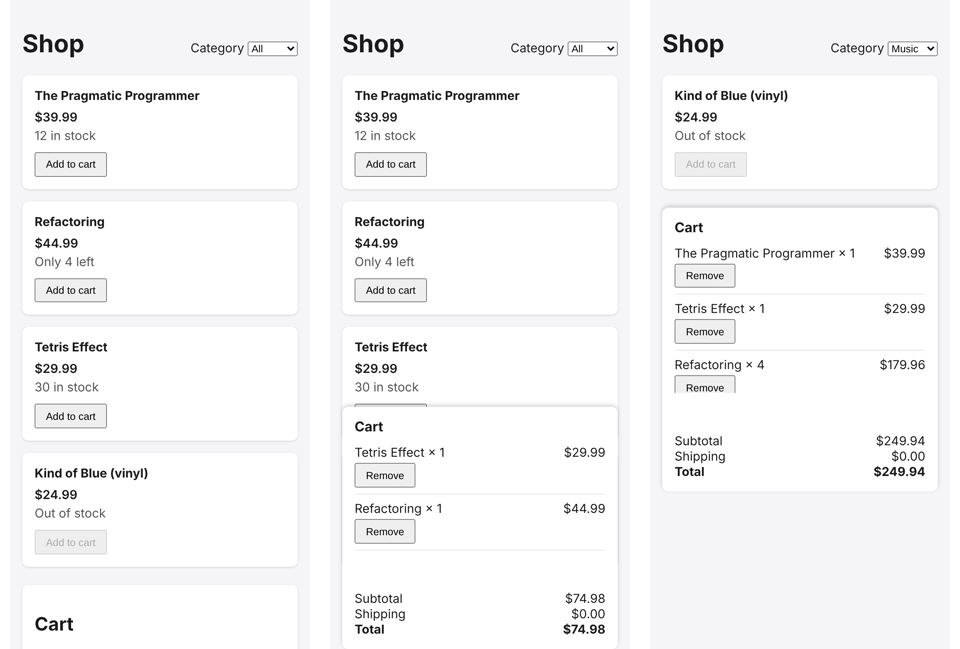
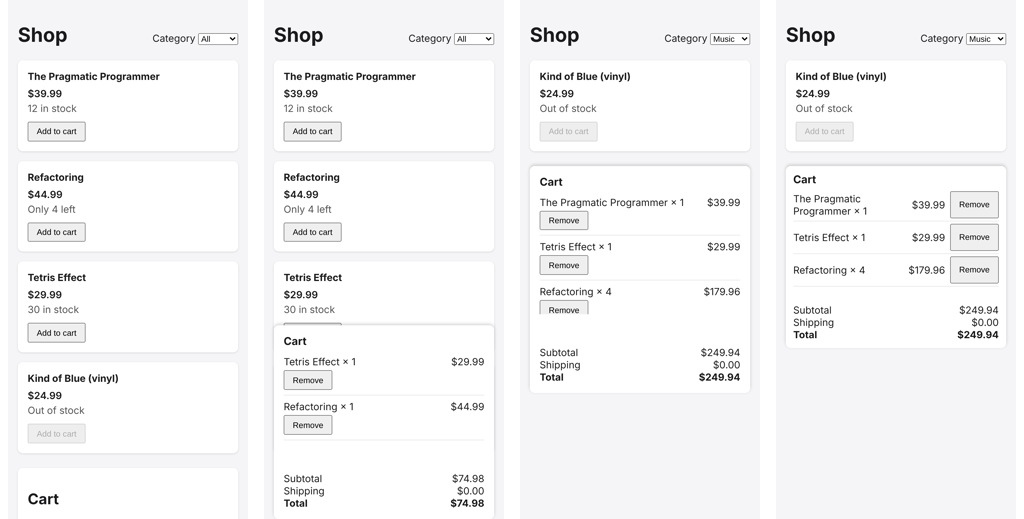
docs(qa): the storefront's third pass: four 🟡 found and fixed, then PASS
Claude-Session: https://claude.ai/code/session_01AxYJUPyK8GraQMYqJv5HXb

diff --git a/docs/qa.md b/docs/qa.md
@@ -15,9 +15,9 @@ when you ask: no agent hands off to it.
 [![QA-03 before and after its fix, and QA-05, which the fix brought](media/qa-storefront.png)](https://github.com/Akiles94/ai-dev-toolkit-examples/tree/main/examples/qa)
 
 *On the [storefront example](https://github.com/Akiles94/ai-dev-toolkit-examples/tree/main/examples/qa),
-a page the reviewer had passed: on a phone the cart was below every card (left); the fix docked it
-(middle); the second pass found that, with three lines, the docked cart cuts a button in half
-(right). Screenshots taken by `aidt qa walk`.*
+a page the reviewer had passed: on a phone the cart was below every card; the fix docked it; the
+second pass found that, with three lines, the docked cart cut a button in half; after that fix the
+third pass gave PASS. Screenshots taken by `aidt qa walk`.*
 
 [Why](#why-a-qa-and-not-only-a-reviewer) · [A pass](#a-pass) · [The walk](#the-walk) ·
 [What you get](#what-you-get) · [The fixes](#the-fixes-and-their-tests) ·
@@ -106,11 +106,11 @@ which the agent cannot write: `["local", "https://cdn.example.com"]`, or only
 
 ```text
 $ aidt qa walk .aidt/tasks/feat-SHOP-40-storefront/qa/walks/double-tap.json
-Walk «A double tap on Add to cart» · http://localhost:3000 · at ebbe590
+Walk «A double tap on Add to cart» · http://localhost:3000 · at 5efa566
  1 shopper    go /
-      GET / 200 · GET /products 200 · POST /carts 201 · GET /carts/cart-b3592575 200
+      GET / 200 · GET /products 200 · POST /carts 201 · GET /carts/cart-a7ae1cea 200
  2 shopper    click "Add to cart" ×2
-      POST /carts/cart-b3592575/items 200 · POST /carts/cart-b3592575/items 200
+      POST /carts/cart-a7ae1cea/items 200 · POST /carts/cart-a7ae1cea/items 200
  3 shopper    look «the cart after a double tap»
       screenshot: .aidt/qa/double-tap/03-shopper.png
       │ Shop
@@ -120,9 +120,10 @@ Walk «A double tap on Add to cart» · http://localhost:3000 · at ebbe590
       │ $79.98
       │ … 2 more line(s) in .aidt/qa/double-tap/03-shopper.txt
  4 shopper    keep cart
-      cart = "cart-b3592575"
+      cart = "cart-a7ae1cea"
  5 intruder   request DELETE /carts/{cart}/items/p-1
-      200 {"id":"cart-b3592575","items":[],"subtotalCents":0,"shippingCents":0,…}
+      DELETE /carts/cart-a7ae1cea/items/p-1 200
+      {"id":"cart-a7ae1cea","items":[],"subtotalCents":0,"shippingCents":0,…}
 Walked all 5 step(s).
 Calls that failed or answered 4xx/5xx: 0 · console errors: 0 · page errors: 0
 Log: .aidt/qa/double-tap/walk.json
@@ -182,10 +183,12 @@ a page built with the full workflow and passed by the reviewer:
 | Pass 1: 9 walks, 15 runs, the report | `claude-sonnet-5-5` | 41 | 3 min 8 s | 1.75M (1.69M) | 17.6k | $0.59 |
 | The fixes (SHOP-41): refiner, planner, builder, reviewer twice | `claude-sonnet-5-5` | — | 6 min 13 s | 4.0M (3.8M) | 53k | $1.47 |
 | Pass 2: 4 walks, 7 runs, the report | `claude-sonnet-5-5` | — | 1 min 40 s | 773k (729k) | 7.7k | $0.26 |
+| The fix of pass 2's finding: refiner, planner, builder, reviewer | `claude-sonnet-5-5` | — | 3 min 59 s | 3.5M (3.3M) | 32k | $1.35 |
+| Pass 3: 3 walks, the report | `claude-sonnet-5-5` | 27 | 1 min 34 s | 948k (878k) | 12k | $0.45 |
 
-- **The QA: $0.98 for two passes.** First pass: three 🟡 and a note on a page with 34 green tests
-  and a reviewer's PASS. Second pass: the three fixed, and a new 🟡 the fix brought. The walks
-  cost no tokens; each ran in 2 to 10 seconds.
+- **The QA: $1.44 for three passes.** First pass: three 🟡 and a note on a page with 34 green
+  tests and a reviewer's PASS. Second pass: the three fixed, and a new 🟡 the phone fix brought.
+  Third pass, after that fix: PASS. The walks cost no tokens; each ran in 2 to 10 seconds.
 - **About 200,000 tokens per walk**, as Claude Code counts them: most are the conversation read
   again from the cache, at a tenth of the price. The agent's estimate counts them that way.
 - **The fixes are a block like any other.** On the same fix, the reviewer failed a CSS section from

diff --git a/README.md b/README.md
@@ -74,7 +74,7 @@ is kept in full, so you can see the results before installing anything. Measured
 | [Full workflow](docs/workflow.md#cost-and-model), ticket to 2 stacked PRs | Sonnet | 7 min 36 s | $1.43 |
 | [Full workflow](https://github.com/Akiles94/ai-dev-toolkit-examples/tree/main/examples/storefront), ticket to a web page in 3 reviewed sections | Sonnet | 6 min 40 s | $1.65 |
 | [Demo](docs/demo.md#cost-and-model), that page as a 1 min 20 s narrated video | Sonnet | 4 min 40 s | $0.28 |
-| [QA](docs/qa.md#cost-and-model), that page used as each person: two passes, 3 🟡 fixed and 1 new found | Sonnet | 5 min 6 s | $0.98 |
+| [QA](docs/qa.md#cost-and-model), that page used as each person: three passes, 4 🟡 found and fixed, then PASS | Sonnet | 6 min 40 s | $1.44 |
 | [Context](docs/context.md#measured), closing a block: a status 80 % shorter, 5 summaries | Sonnet | 1 min 5 s | $0.28 |
 
 ### How these numbers were measured
@@ -88,9 +88,9 @@ is kept in full, so you can see the results before installing anything. Measured
   toward usage limits instead.
 - **One run each**, on a small demo repository. Three reviewer runs on the same branch cost
   between $0.22 and $0.29: expect that kind of spread from run to run.
-- **A QA walk costs no tokens:** the $0.98 is the agent choosing what to try, reading what the app
-  answered and writing two reports; the fixes between the passes went through the workflow
-  ($1.47 more).
+- **A QA walk costs no tokens:** the $1.44 is the agent choosing what to try, reading what the app
+  answered and writing three reports; the fixes between the passes went through the workflow
+  ($2.82 more).
 - **Rendering a demo costs no tokens:** the $0.28 is the agent writing the script; rendering it
   again later took 1 min 50 s and nothing else.
 - **Not measured:** GitHub Copilot, which bills by premium requests of your plan and uses the model
@@ -205,7 +205,8 @@ script, subtitles and PR text: [examples/demo](https://github.com/Akiles94/ai-de
 The same storefront, used by the `qa` agent as a shopper, on a phone and as someone with bad
 intentions. The page had 34 green tests and a reviewer's PASS; the first pass found three 🟡 (a
 message left on screen, a 500 on a malformed body, no feedback on a phone), the fixes went through
-the workflow, and the second pass found them fixed and one new 🟡 the phone fix brought.
+the workflow, the second pass found them fixed and one new 🟡 the phone fix brought, and after
+that fix the third pass gave PASS.
 
 [![QA-03 before and after its fix, and QA-05, which the fix brought](docs/media/qa-storefront.png)](https://github.com/Akiles94/ai-dev-toolkit-examples/tree/main/examples/qa)
 
